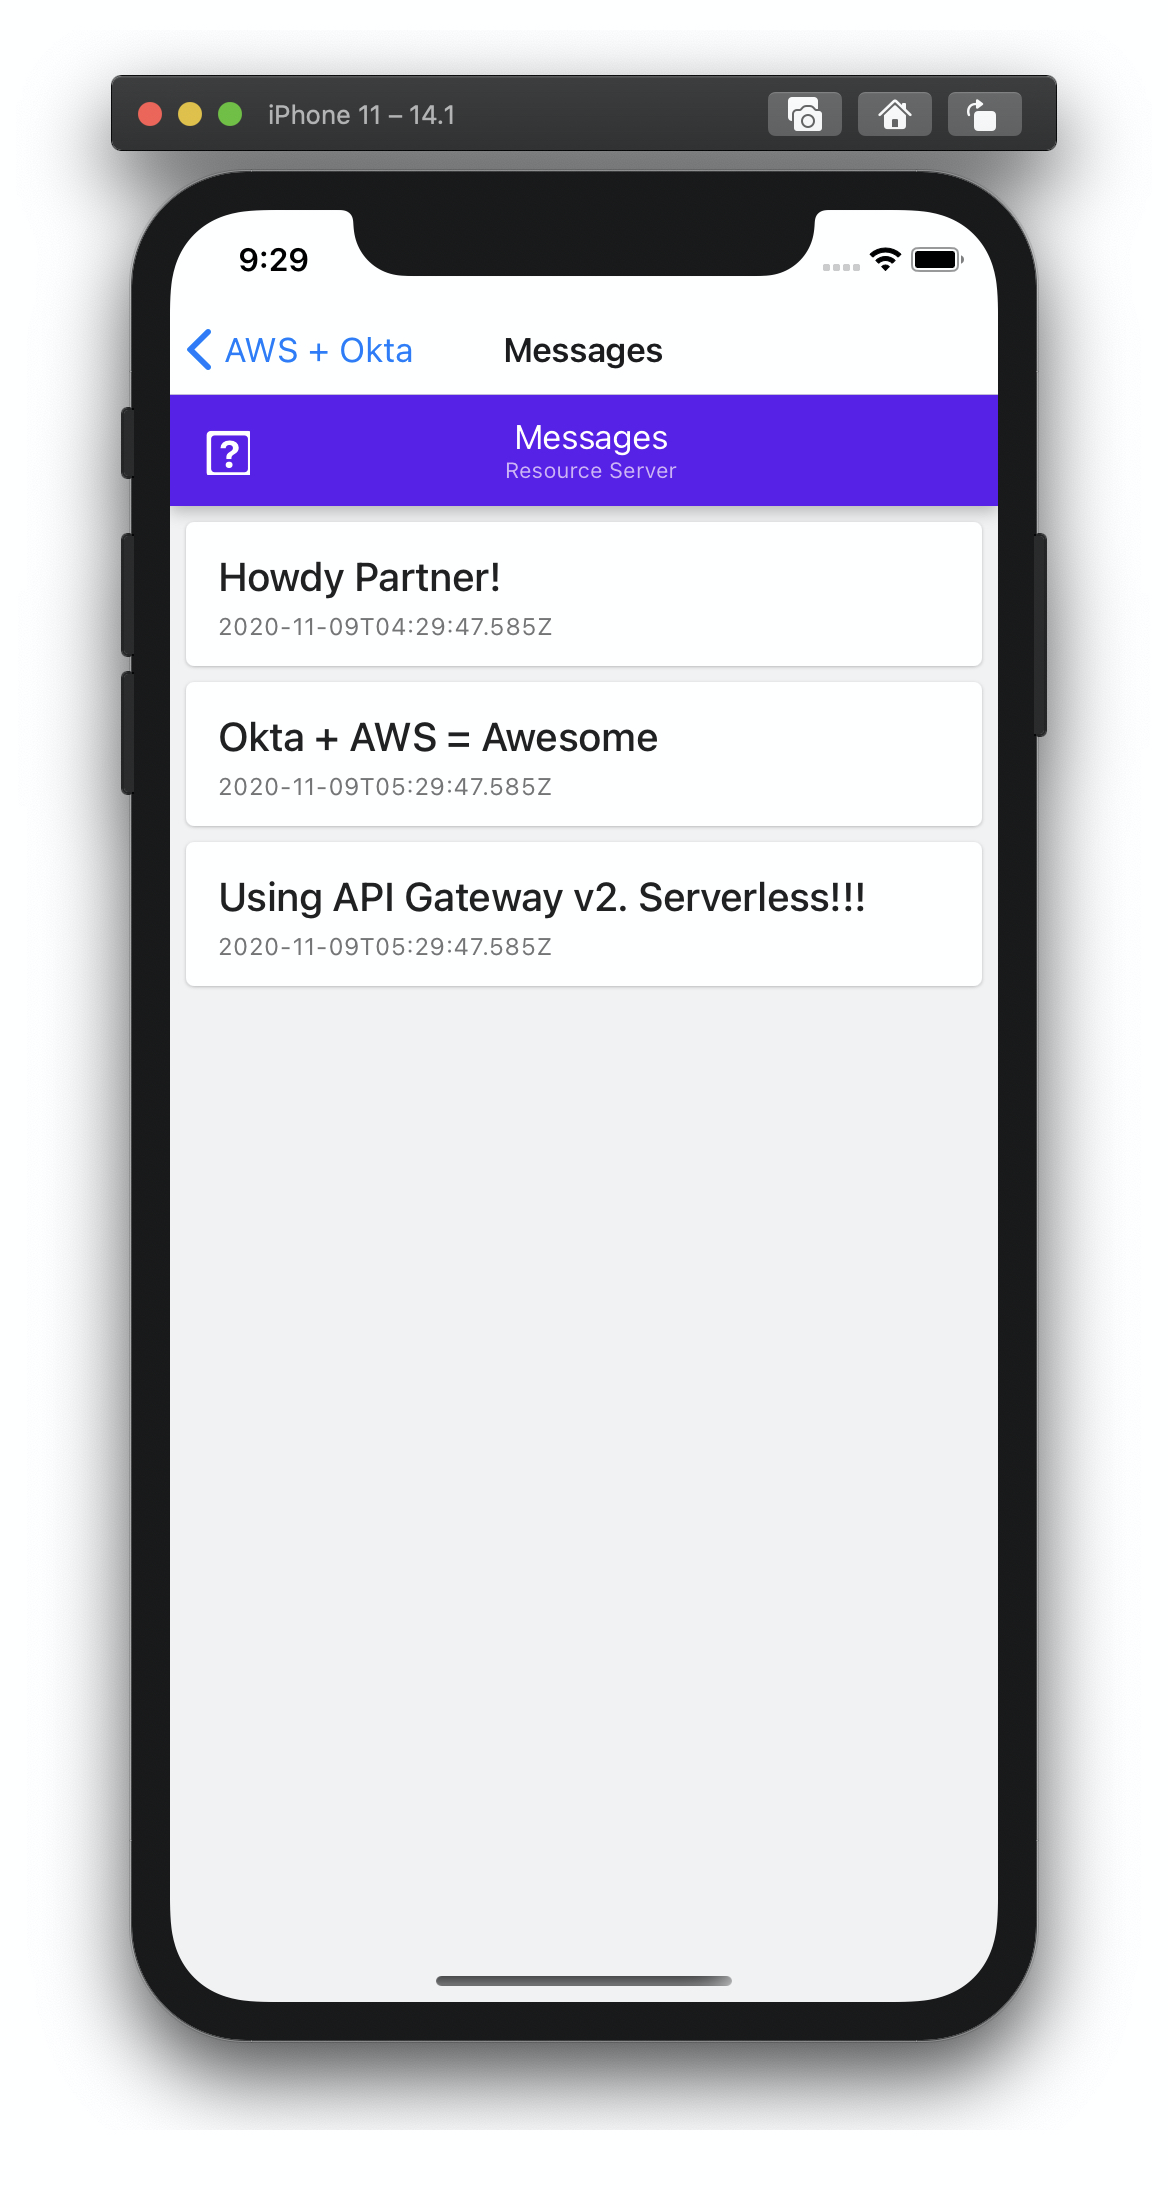
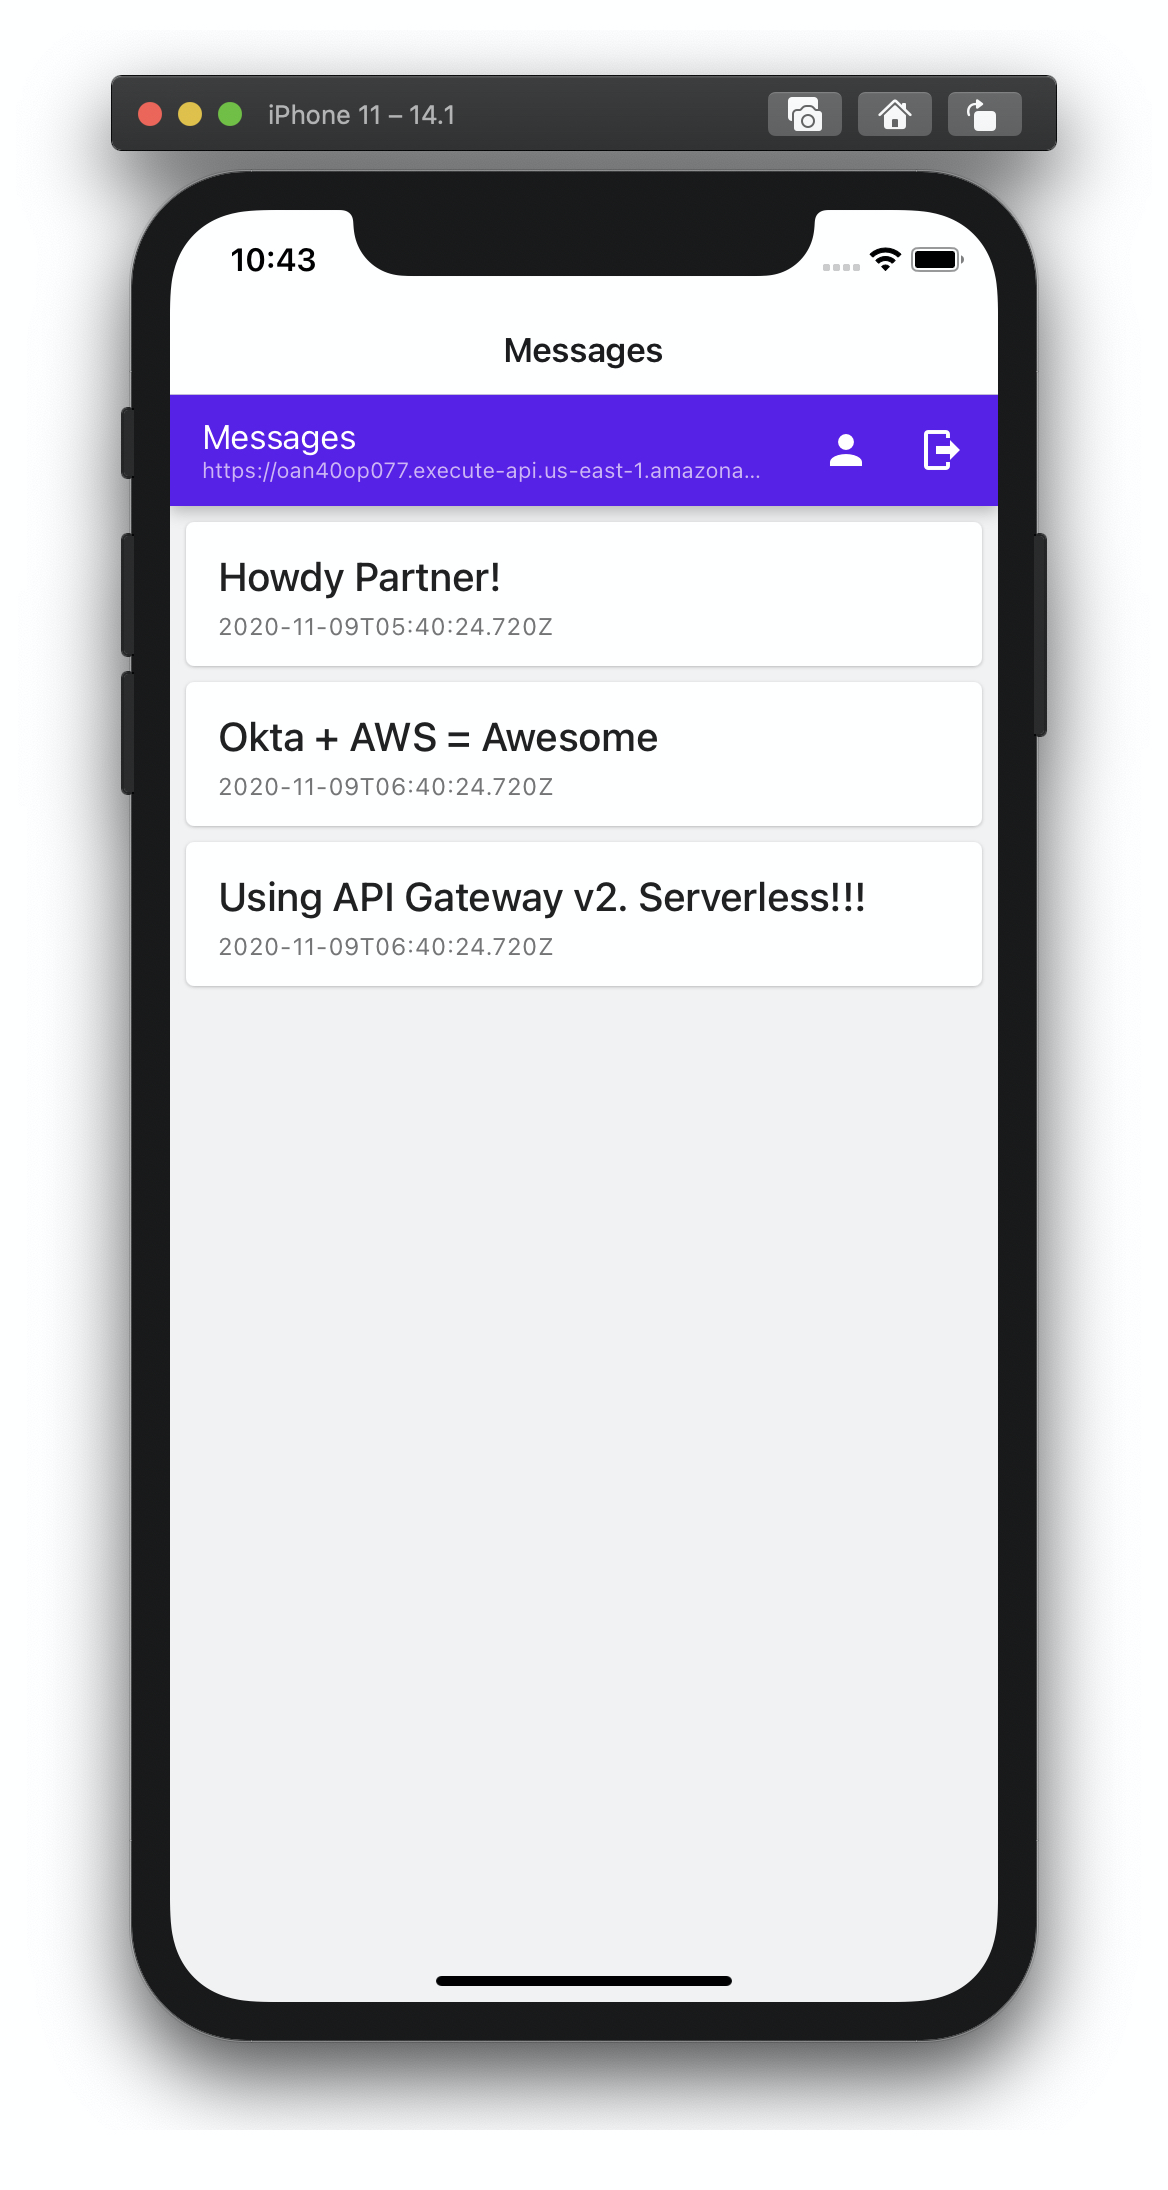
Updated images for README

diff --git a/README.md b/README.md
@@ -17,6 +17,8 @@ cd OktaMobile
 
 OktaMobile requires the React Native CLI. See documentation for environment setup: https://reactnative.dev/docs/environment-setup
 
+You will need to setup Android Studio and an Android Virtual Device Emulator for Android Development. For iOS, you will need to install Xcode (MacOS only) and create an Apple iPhone Simulator.
+
 ### Install JS dependencies
 
 Install dependencies based on package.json
@@ -33,7 +35,13 @@ CocoaPods dependencies are needed for ios development
 cd ios && pod install && cd ..
 ```
 
-## Run sample
+### Generate Andorid Keystore for Development (Android)
+
+```bash
+keytool -genkey -v -keystore android/app/debug.keystore -storepass android -alias androiddebugkey -keypass android -keyalg RSA -keysize 2048 -validity 10000
+```
+
+## Run OktaMobile
 
 ### Start Metro
 
@@ -59,6 +67,22 @@ Enter your credentials and tap the **Login** button. You can login with the same
 
 ![Custom Login Screen](/images/okta-mobile-login-screen.png)
 
-After you complete the login flow, you will be able to see the messages from the Resource Server (AWS API Gateway).
+After you complete the login flow, you will see your account information.
+
+![Account Profile Screen](/images/okta-mobile-profile-claims.png)
+
+If you click on the `message` icon in the AppBar, you will be able to see the messages from the Resource Server (AWS API Gateway).
+
+Note: You will need to edit the `samples.config.js` and update the `resourceServer.messagesUrl` to specify your API Gateway endpoint.
+
+```js
+...
+  resourceServer: {
+    messagesUrl:
+      'https://ABBA.execute-api.us-east-1.amazonaws.com/api/messages',
+  },
+};
+
+```
 
 ![Messages Screen](/images/okta-mobile-messages.png)
